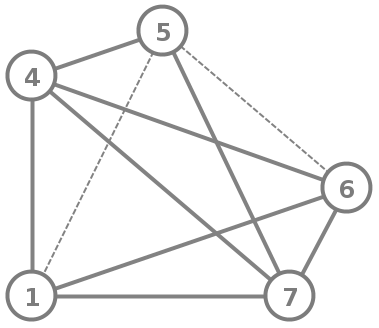
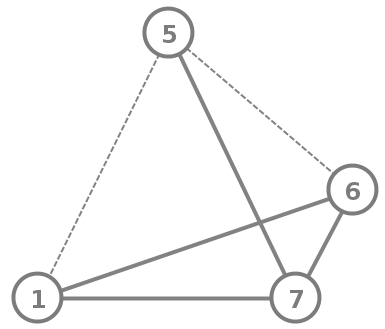
correcting figures in good and bad order

diff --git a/diss.tex b/diss.tex
@@ -597,8 +597,14 @@ $$\begin{bmatrix}
 We setup a graph for ILU preconditoning.
 The graph for preconditoning would be simply the adjacency matrix
 since the matrix is symmetric. 
-The first graph shown at the top-left part of Figure~\ref{bad_order_fillin}
-is shown the graph computed from the previous matrix.
+For example, the graph in Figure~\ref{bad_order_fillin}
+is computed from the previous matrix. Here, we illustrated the
+computation of Cholesky factorization step by step.
+Figure~\ref{bad_order_fillin} computes the Cholesky factorization
+in which the order of vertices are the numbering writen on the vertices
+as labels. The ordering in Figure~\ref{bad_order_fillin} is actually
+ a worst-case ordering that produces $6$ fillins. These fillins are
+illustrated as dotted lines.
 
 %\begin{figure}
 %\centering
@@ -615,10 +621,14 @@ is shown the graph computed from the previous matrix.
    \includegraphics[width=0.4\linewidth]{bad_order_2_1_removed}
    \hfill
    \includegraphics[width=0.3\linewidth]{bad_order_3_2_1_removed}
-\caption{The bad  ordering}
+\caption{A worst case ordering generates $6$ fillins. The ordering here is the 
+numberign which visualized as labels.}
 \label{bad_order_fillin}
 \end{figure}
 
+Figure~\ref{good_order_fillin} shows how the new ordering produces
+$5$ fillins when the ordering is $2, 3, 4$. However, the best ordering produces only $3$ fillins
+as Fiugre~\ref{good_order_fillin2} shows when the ordering is $2, 5, 3$.
 
 \begin{figure}
 \centering
@@ -628,7 +638,7 @@ is shown the graph computed from the previous matrix.
    \includegraphics[width=0.4\linewidth]{good_order_3_2}
    \hfill
    \includegraphics[width=0.4\linewidth]{good_order_4_3_2}
-\caption{The good  ordering}
+\caption{The order of elimination $2, 3, 4$ generates $5$ fillins.}
 \label{good_order_fillin}
 \end{figure}
 
@@ -641,12 +651,13 @@ is shown the graph computed from the previous matrix.
    \includegraphics[width=0.4\linewidth]{good_order_5_2_removed}
    \hfill
    \includegraphics[width=0.25\linewidth]{good_order_3_5_2_removed}
-\caption{The good  ordering}
+\caption{The order of elimination $2, 5, 3$ generates $3$ fillins.}
 \label{good_order_fillin2}
 \end{figure}
 
 There are various ordering which were studied for coloring heuristics
-throughout years. Here, we have a list of such orderings for coloring.
+throughout years. Here, we have a list of such orderings for coloring
+which is available in \textit{PreCol}.
 In each item, we explain how the algorithm select the next vertex.
 \begin{itemize}
 \item Largest-First Ordering (LFO)~\cite{LFO} chooses a vertex with minimum degree in each step.
@@ -654,24 +665,54 @@ In each item, we explain how the algorithm select the next vertex.
 \item Stauration-degree Ordering (SDO)~\cite{SDO} chooses first the vertex with the maximum degree in $G$, namely $v$. Then, it chooses the vertex with the maximum saturation degree in
 $V$. The saturation degree of the vertex $v$ is the number of different colored vertices in the neighbours of $v$.
 \end{itemize}
-In addition to these orderings, we consider four other orderings
-for preconditoning:
-\begin{itemize}
-\item Natural Ordering:
-\item NDMetis Ordering\cite{metis,par-nested-disection}:
-\item Minimum Degree:
-\item Maximum Degree:
-\end{itemize}
 
+In addition to these orderings, we consider three other orderings for preconditoning:
+\begin{itemize}
+\item Natural Ordering: This ordering is based on the ordering of the matrix rows and columns given as input.
+\item Minimum Degree: The one generates a list of vertices which are sorted based on the degree from minimum to maximum.
+\item Metis Ordering\cite{metis,par-nested-disection}: This ordering is generated by the well known
+tool \textit{Metis} which is a fill-reducing ordering.
+\end{itemize}
+As we discussed in Section~\ref{precond}, the additionally required elements are a subset of 
+potentially required elements which are selected such that no new fillin is generated. 
+So, we can guess the number of fillins in ILU factorization affects the additionally required elements.
+The following tables shows that different ordering generates different fillins and additionally
+required elements,
 \begin{table}
 \begin{tabular}{|c|c|c|c|c|}
 \hline
-Matrix & Nat & Max & Min & Metis \\\hline
-gyro\_m & 27890 & 333 &25900 & 25512 \\\hline
+Orders & Colors & Fillins & Adds \\\hline
+Nat & 15 & 70 & 398 \\\hline
+Min & 15 & 52 & 410 \\\hline
+Metis & 15 & 52 & 410 \\\hline
 \end{tabular}
-\caption{The number of fillins compared based on the different orderings
-for the graph vertices.}
+\hfill
+\begin{tabular}{|c|c|c|c|c|}
+\hline
+Orders & Colors & Fillins & Adds \\\hline
+Nat & 34 & 8760 & 60554 \\\hline
+Min & 34 & 8414 & 61002 \\\hline
+Metis & 34 & 642 & 67352 \\\hline
+\end{tabular}
+\caption{The number of fillins and additionally required elements compared based on the different orderings
+for the graph vertices. The number of colors remains the same since we change only the ordering for
+ILU factorization.
+The left table is for the matirx \textit{nos3.mtx} with $960$ rows, $960$ columns, and $15844$ nonzero elements 
+and the right one is for the matrix\textit{gyro\_m} with $17361$ rows ,$17361$ columns, $340431$ nonzero elements.
+Both are from the Florida sparse matrix collections.}
 \end{table}
+
+These results are computed on the symmetric matrix \textit{nos3.mtx} with $960$ rows, $960$ columns, and $15844$ nonzero elementstheand the symmetric matrix \textit{gyro\_m} with
+$17361$ rows ,$17361$ columns, $340431$ nonzero elements from 
+the Florida sparse matrix collections. The block size is
+chosen to be $50$ for the matrix \textit{gyro\_m} and $15$ for 
+the matrix \textit{nos3}. Also, the coloring algorithm would be a one-sided
+partial coloring. As it can be seen in this table, the fill-reducing Metis ordering 
+generates the minimum fillin as well as the maximum additionally required elements.
+Another observation is that the Metis and Min ordering are generating almost the same
+number of fillins and additionally required elements for the small matrices. 
+It is only for the big matrices which the power of Metis ordering can be seen.
+
 
 \section{Usability, Readability, and Extensibility}
 \label{s.extend}
